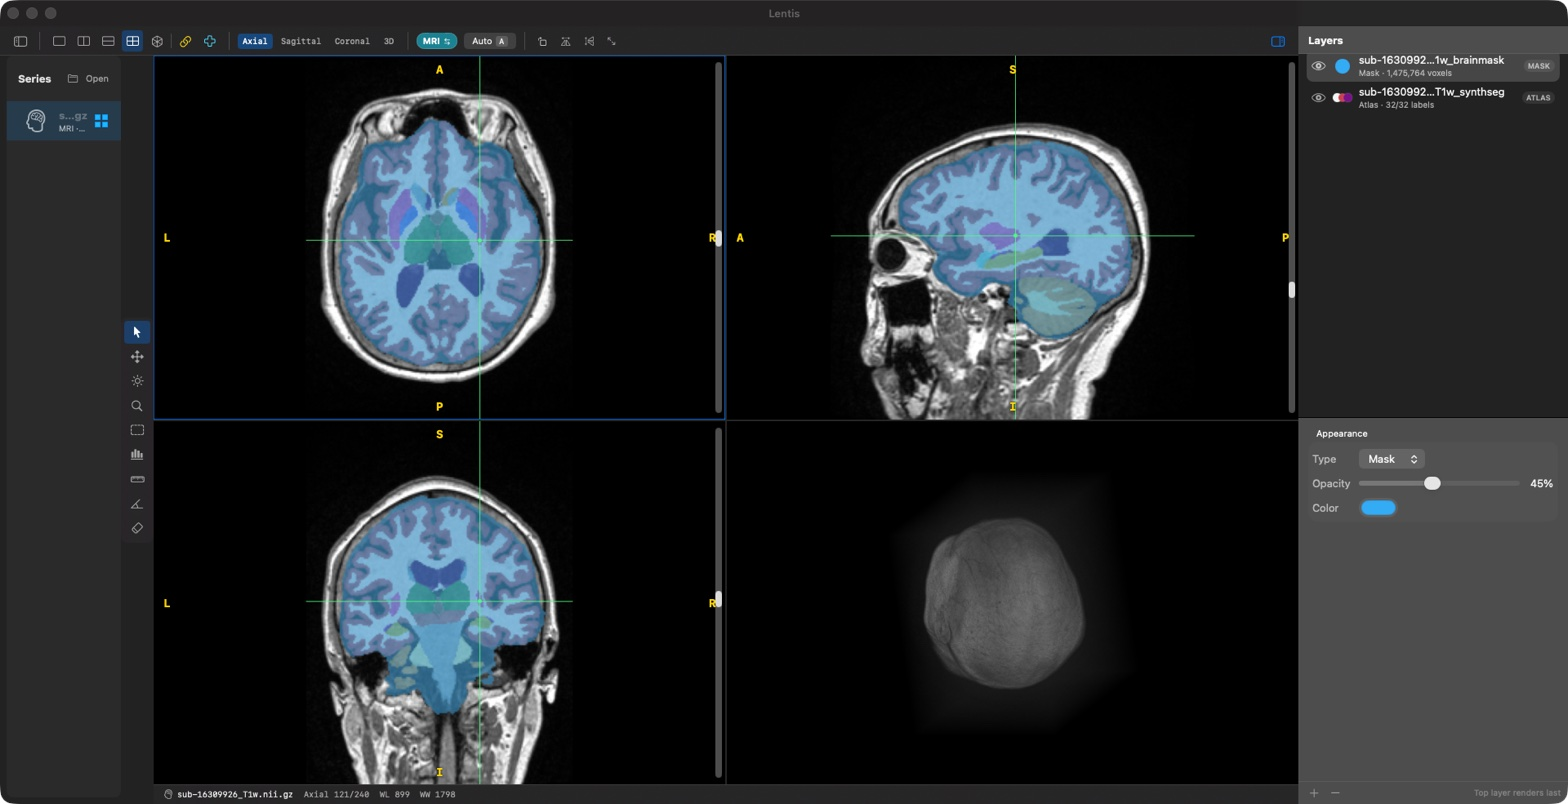
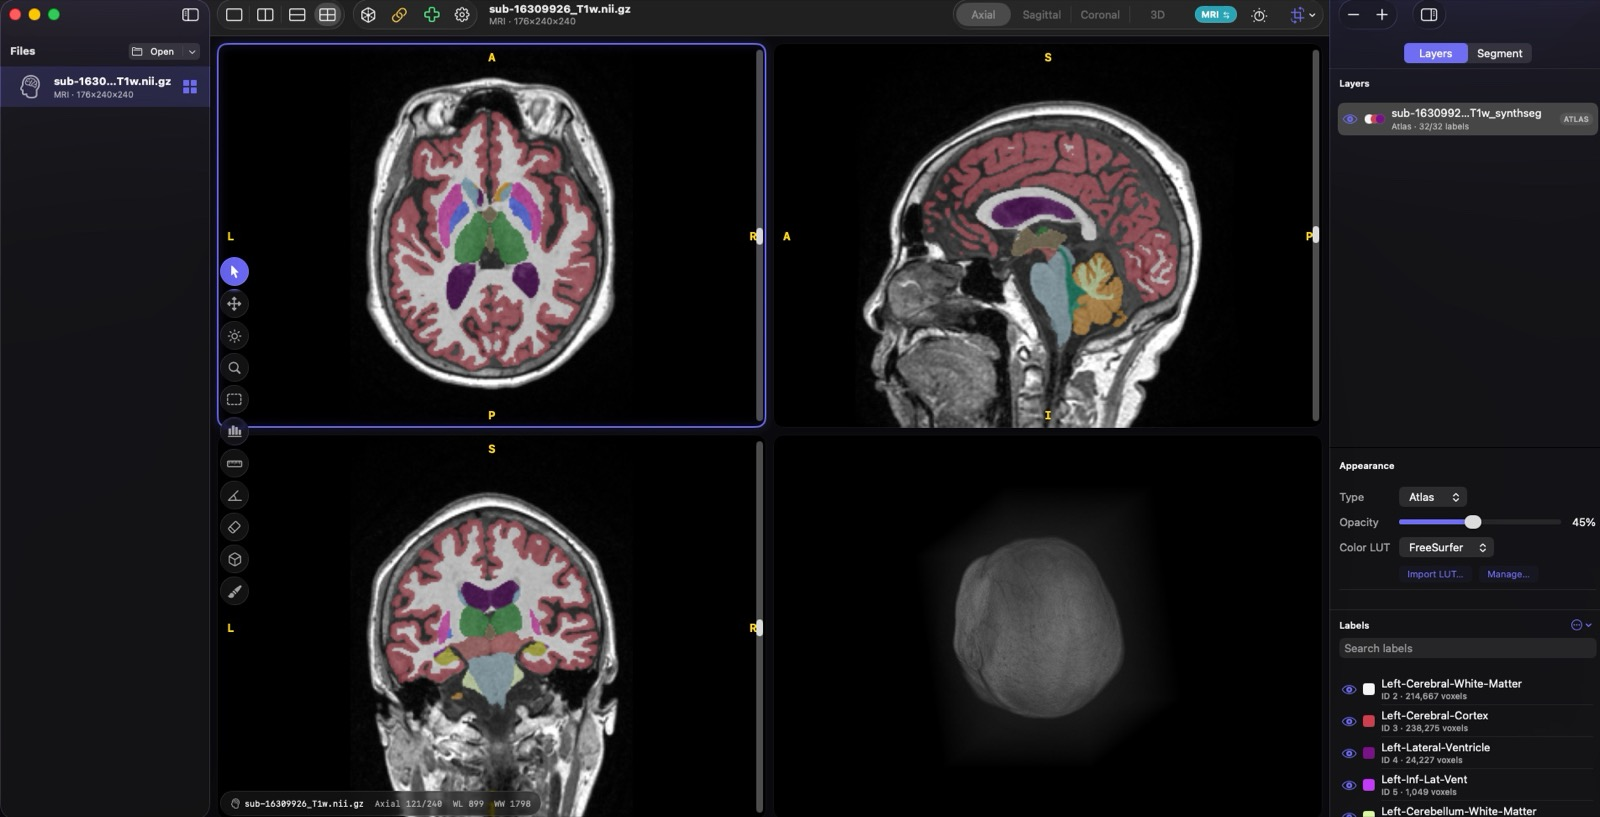
Docs: refresh README and screenshot for 2.0
- Requirements now state macOS 26 / Xcode 26 / Swift 6.2 (Liquid Glass).
- Add a Download section (Releases/DMG) plus calcification segmentation,
  SynthSeg, and BIDS features; folder/BIDS open step; B/K tool shortcuts;
  segmenter + NIfTI writer in the architecture tree.
- Update screenshot.png (and the docs/ Pages copy) to the current UI: a T1
  MRI in the linked quad with a FreeSurfer atlas overlay and Layers inspector.

diff --git a/README.md b/README.md
@@ -7,7 +7,7 @@
 <p align="center">
   <strong>A native macOS NIfTI brain viewer for CT and MRI.</strong><br>
   Affine-correct neurological orientation, linked multiplanar views, interactive Metal volume rendering,
-  and mask/atlas overlays in one focused desktop app.
+  mask/atlas overlays, and calcification segmentation in one focused desktop app.
 </p>
 
 <p align="center">
@@ -32,6 +32,9 @@ The app began as a fork of [OpenDicomViewer](https://github.com/jnheo-md/open-di
 - **Interactive 3D rendering** — Metal compute ray marching with drag rotation, density control, physical-spacing-aware geometry, lighting, and full-quality settling after interaction.
 - **CT- and MRI-aware display** — CT HU presets (Brain, Subdural, Stroke, Bone, and Soft Tissue), robust MRI auto-windowing, manual window/level, invert, zoom, pan, rotate, and flip.
 - **Mask and atlas layers** — add 3D NIfTI overlays in the native Layers Inspector; Lentis performs affine-aware nearest-neighbour alignment and supports ordering, opacity, mask colors, FreeSurfer/custom LUTs, and per-label visibility.
+- **Calcification segmentation** — draw a resizable 3D ROI box and segment by threshold or grow-from-seed; manage multiple labeled regions, optionally constrain to a brain mask, and export the result as a mask or multi-label atlas NIfTI with a FreeSurfer LUT.
+- **FreeSurfer SynthSeg integration** — generate a brain mask and anatomical parcellation in-app (`mri_synthseg`), automatically naming segmented regions by anatomy.
+- **BIDS datasets** — open a BIDS or loose-folder dataset, browse subjects and sessions in the sidebar navigator, and write outputs into a `derivatives/lentis/` tree.
 - **4D timepoints** — switch volumes without changing the shared spatial view or quantization scale.
 - **Measurement tools** — ruler, angle, ROI statistics, and ROI-based window/level.
 - **Spatial readout** — live voxel coordinates, RAS millimetres, and calibrated HU/intensity values in the status bar.
@@ -40,9 +43,13 @@ The app began as a fork of [OpenDicomViewer](https://github.com/jnheo-md/open-di
 
 ## Requirements
 
-- macOS 14 Sonoma or later
+- macOS 26 Tahoe or later (required for the native Liquid Glass UI)
 - Apple Silicon Mac (`arm64`)
-- Xcode 15+ or a Swift 5.9+ toolchain for source builds
+- Xcode 26 / a Swift 6.2+ toolchain for source builds
+
+## Download
+
+Prebuilt, ad-hoc-signed DMGs are published on the [Releases](../../releases) page. Because the app is not notarized, the first launch needs **right-click → Open** (or an approval under **System Settings → Privacy & Security**).
 
 ## Build and Run
 
@@ -63,11 +70,12 @@ To create a release app and DMG:
 ./scripts/package_app.sh
 ```
 
-This produces `Lentis.app` and `Lentis.dmg` with ad-hoc signing by default. Developer ID signing and notarization require your own Apple credentials and packaging configuration.
+This produces `Lentis.app` and `Lentis.dmg` with ad-hoc signing by default. Developer ID signing and notarization require your own Apple credentials and packaging configuration. Pushing a `v*` tag builds and publishes the DMG to Releases automatically via GitHub Actions.
 
 ## Open Images and Layers
 
 - Press `Cmd+O`, use **File → Open**, click **Open** in the sidebar, or drop a `.nii` / `.nii.gz` file onto the viewer.
+- Press `Opt+Cmd+O` or use **File → Open Folder** to open a folder or BIDS dataset, then pick images from the sidebar navigator.
 - Press `Cmd+Shift+O`, use **File → Add Layer**, or drop a 3D NIfTI mask/atlas into the Layers Inspector.
 - Click the brain-quad button or press `Cmd+Shift+M` to create linked axial, sagittal, coronal, and 3D panels.
 - Click or drag in an MPR panel with the Select tool to reposition the shared crosshair.
@@ -108,6 +116,8 @@ External layers are session-scoped. Label `0` is transparent, categorical labels
 | `D` | Ruler |
 | `N` | Angle |
 | `E` | Eraser |
+| `B` | Calcification ROI box |
+| `K` | Calcification brush |
 
 Right-drag adjusts window/level from any tool. Hold `Option` or `Control` while left-dragging to pan, or while scrolling to zoom.
 
@@ -124,7 +134,9 @@ Sources/Lentis/
 ├── MPREngine.swift             # Oriented CPU slice extraction and layer compositing
 ├── MetalVolumeRenderer.swift   # Metal 3D ray marcher and projection rendering
 ├── OverlayLayerLoader.swift    # Mask/atlas classification and affine-aware alignment
-├── LayerInspectorView.swift    # Native layer and LUT management UI
+├── CalcificationSegmenter.swift # Threshold/grow segmentation engine and ROI-box geometry
+├── NiftiWriter.swift           # NIfTI-1 writer for mask/atlas export and brain-mask write-back
+├── LayerInspectorView.swift    # Native layer, segmentation, and LUT management UI
 └── MultiPanelContainer.swift   # Panel grid, gestures, annotations, and overlays
 ```
 